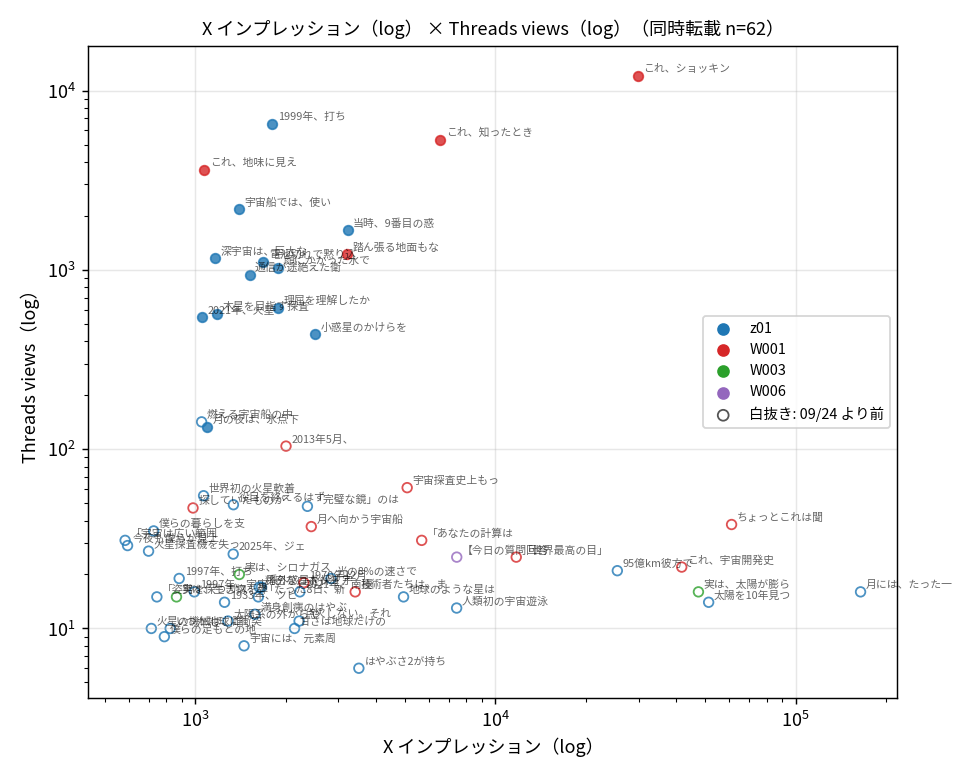
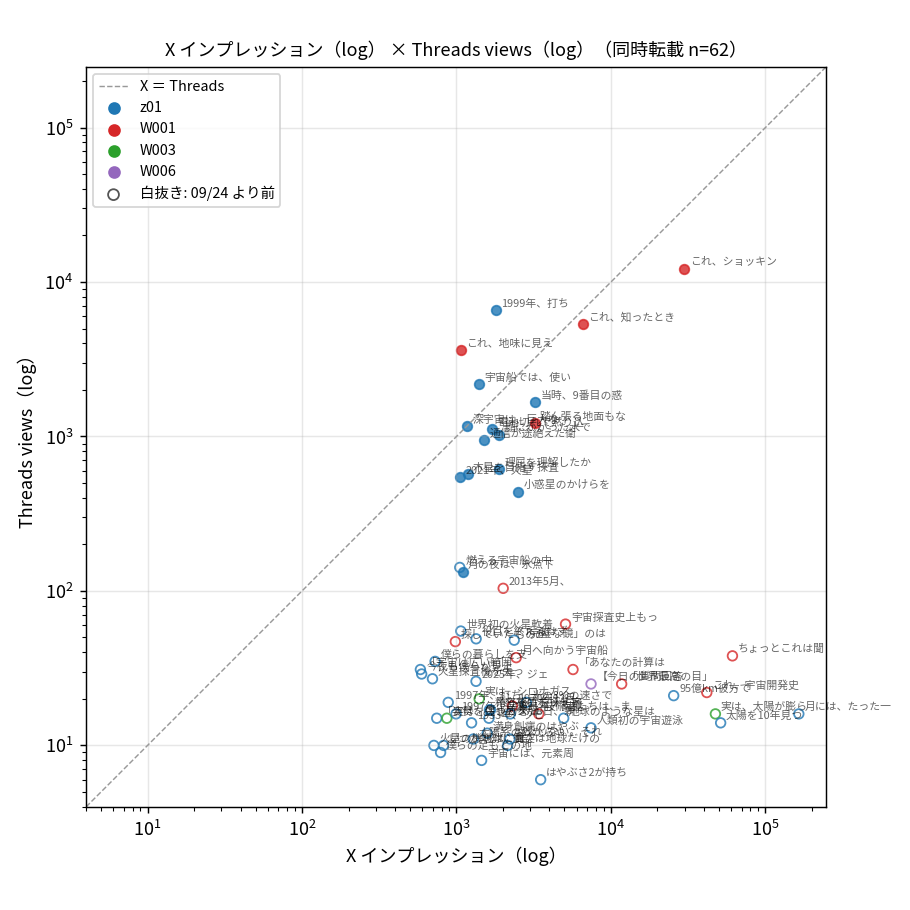
analysis(x_threads_corr): 散布図の縦軸・横軸の目盛り範囲を揃え、X＝Threads の破線を引く
Claude-Session: https://claude.ai/code/session_014QYiiwB5ehRKsnZNqAmxSJ

diff --git a/scripts/x_threads_corr.py b/scripts/x_threads_corr.py
@@ -326,8 +326,9 @@ def scatter(pairs, out_dir):
     ]
     paths = []
     for fname, kx, ky, lx, ly, log in specs:
-        fig, ax = plt.subplots(figsize=(7.5, 6))
+        fig, ax = plt.subplots(figsize=(7, 7))
         n = 0
+        xs, ys = [], []
         for p in use:
             xv, yv = p[kx], p[ky]
             if any(isinstance(v, float) and math.isnan(v) for v in (xv, yv)):
@@ -335,12 +336,24 @@ def scatter(pairs, out_dir):
             if log and (xv <= 0 or yv <= 0):
                 continue
             n += 1
+            xs.append(xv); ys.append(yv)
             pre = p["x_dt"] < REGIME_START
             ax.scatter(xv, yv, s=28, facecolors="none" if pre else colors.get(p["what"], "#7f7f7f"),
                        edgecolors=colors.get(p["what"], "#7f7f7f"), alpha=0.8)
             ax.annotate(p["text"][:8], (xv, yv), fontsize=6, alpha=0.6, xytext=(3, 2), textcoords="offset points")
         if log:
             ax.set_xscale("log"); ax.set_yscale("log")
+        # 縦軸・横軸の目盛り範囲を揃える（同じ値が対角線に乗る）
+        if xs:
+            lo, hi = min(xs + ys), max(xs + ys)
+            if log:
+                lo, hi = lo / 1.5, hi * 1.5
+            else:
+                pad = (hi - lo) * 0.05 or 1
+                lo, hi = lo - pad, hi + pad
+            ax.set_xlim(lo, hi); ax.set_ylim(lo, hi)
+            ax.plot([lo, hi], [lo, hi], color="#999", lw=0.8, ls="--", label="X ＝ Threads")
+            ax.set_aspect("equal", adjustable="box")
         ax.set_xlabel(lx); ax.set_ylabel(ly)
         ax.set_title(f"{lx} × {ly}（同時転載 n={n}）", fontsize=10)
         for w, c in colors.items():

diff --git a/docs/reports/20261025_x_threads_reaction_correlation.md b/docs/reports/20261025_x_threads_reaction_correlation.md
@@ -45,9 +45,11 @@ sidebar:
 
 ![](20261025_x_threads_scatter_imp_views.png)
 
-白抜きが 9/24 より前。下の帯（views 6〜140）が配信前、上の群が配信後。
+縦軸と横軸は同じ目盛り範囲。破線は X ＝ Threads（破線より上なら Threads のほうが多い）。白抜きが 9/24 より前。下の帯（views 6〜140）が配信前、上の群が配信後で、配信後は破線のすぐ下、つまり Threads の views が X のインプに近づいている。
 
 ![](20261025_x_threads_scatter_like_rate.png)
+
+いいね率は 9/24 より前（白抜き）が破線の左上に離れている（身内だけが見ていた頃の Threads は率だけ高い）。9/24 以降は破線の近くに集まる。
 
 ## 中央値
 
